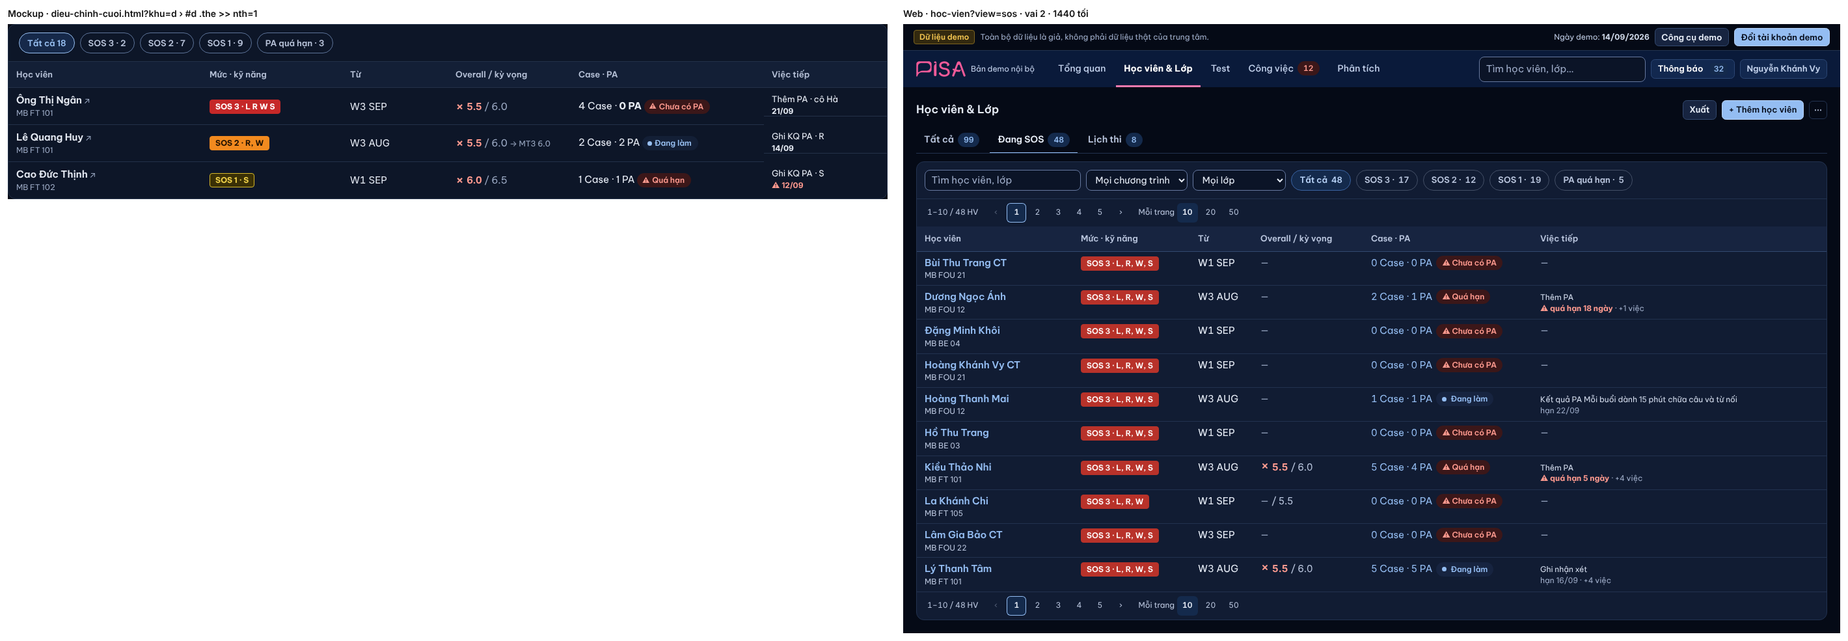
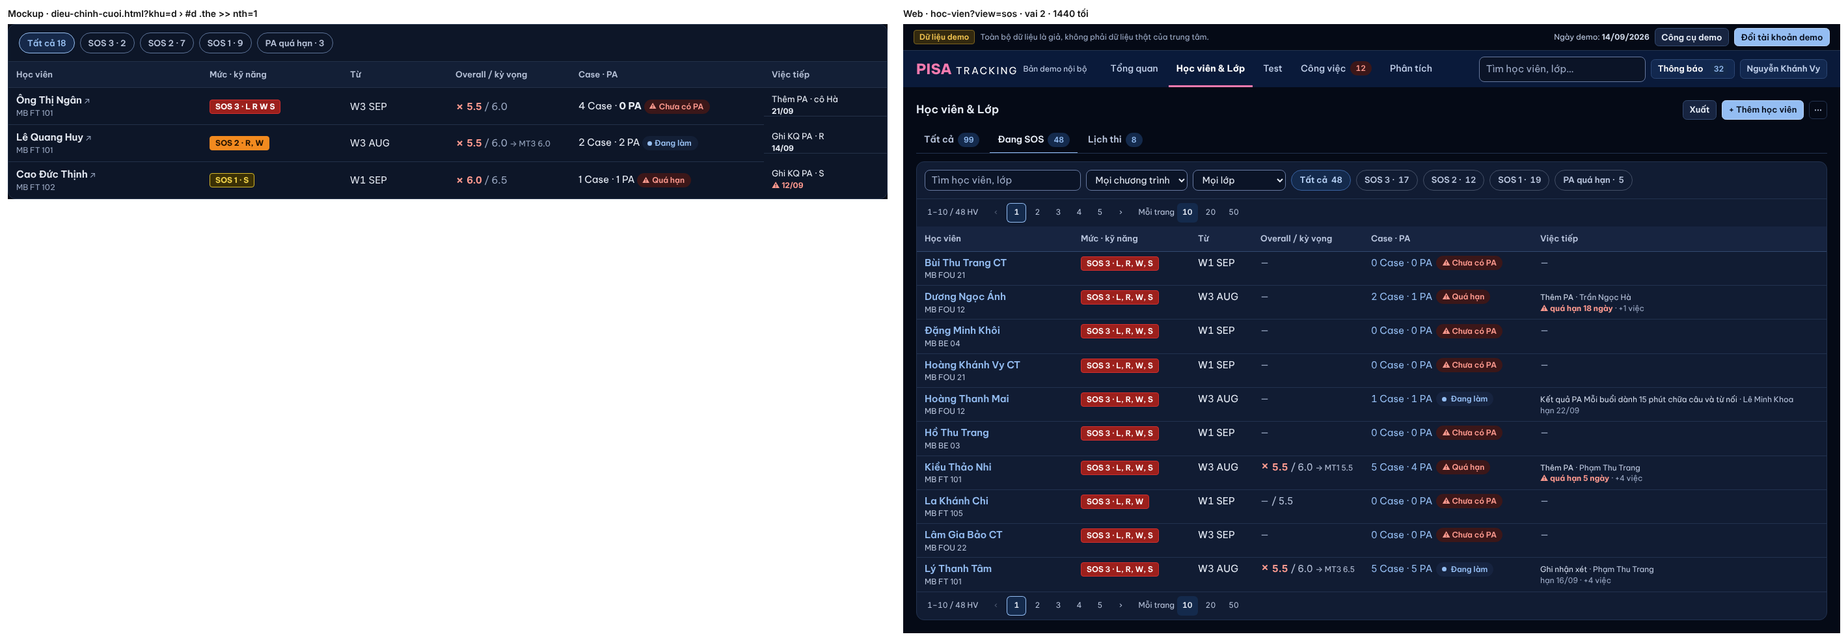
UI-HV-LOP (rà PTA 23/10): Nhập điểm trong ⋯ em, Đang SOS "→ MT kế · kỳ vọng" + người làm việc tiếp, Case mở cùng nguồn
- XM-2: ⋯ dòng em có "Nhập điểm MTn" khi người xem còn ô chờ nhập (máy chủ `nhapDiem` từ `nhapDiemTheoEm`, lượt sớm nhất).
- XM-3: Đang SOS thêm "→ MT kế kỳ vọng" (`HangHv.ke` từ `standingFor`) và người làm việc tiếp (`viecTiep.nguoi`: PA của việc, không thì người giữ Case) → đóng KHÁC #21 #22.
- Lịch thi `chiTiet`: Case mở qua `listCases` (cùng nguồn hàng HV / `chiTietCaseMo`), lô 500 em; trần câu / dòng đo lại.
- Chip "Có việc quá hạn": title ghi rõ đếm theo việc của người xem (GV) / mọi người trong chi nhánh (QL, Admin).
- khop-khac: 27 / 28 KHỚP (#17 chấp nhận), [XM] đã trả lời; ảnh Đang SOS chụp lại. Phép kiểm UHL-4, UHL-5.

Claude-Session: https://claude.ai/code/session_014jDtJR4bBrQziHXFhK9NaK

diff --git a/server/src/classes/hocVienLop.ts b/server/src/classes/hocVienLop.ts
@@ -48,7 +48,8 @@ export type TrangHocVienLop = {
   /** `khung`: Fast Track hay lớp thường của em — công tắc `Tất cả · Fast Track · Lớp thường` đếm chip bằng `demLoc(hocVien, khung)`. */
   hocVien: { id: number; classId: number; loc: LocHocVien[]; khung: 'ft' | 'thuong'; ten: string; ma: string; thieu?: string[]; ketThuc?: true; them?: ThemEm; hang?: HangHv;
     /** UI-HV-LOP (khu d): TVV của em + lịch thi thật (`trangThaiLichThi`, cùng hàm góc Lịch thi) — cột Học viên / Lịch thi, chip "Thi tháng này". */
-    tvv?: string | null; lich?: LichThi }[];
+    tvv?: string | null; lich?: LichThi;
+    nhapDiem?: { kind: string; attemptNo: number; dot: string | null } }[];
   /** Người xem có tạo được lớp MỚI ở chi nhánh nào không — không gắn với lớp đã tồn tại nào (điểm a rà soát cuối). */
   coTheTaoLop: boolean;
   /** HL-14: "+ Học viên" đầu trang — có lớp trong phạm vi thêm được học viên, KHÔNG phụ thuộc ô tìm (tìm không ra em là lúc cần thêm). */
@@ -197,9 +198,10 @@ export function danhSachHocVienLop(
   /* PR-CT: lớp rỗng (em đã chuyển đi hết, GVCN còn phải xác nhận bàn giao) vẫn có thẻ Báo QL theo lớp → cũng nằm trong tập lớp để đếm. */
   for (const id of ids) emTheoLop.set(id, []);
   for (const h of hv) emTheoLop.set(h.class_id, [...(emTheoLop.get(h.class_id) ?? []), h.id as number]);
+  const ndEm = nhapDiemTheoEm(p, ids, today, (sid) => lopCuaHv.get(sid));
   const vl = viecHocVienTheoLop(p, {
     emTheoLop, cases: allCases, homNay: today, chuongTrinhTheoLop: new Map(lops.map((r) => [r.id, r.programmeCode ?? null])),
-    nhapDiemTheoEm: nhapDiemTheoEm(p, ids, today, (sid) => lopCuaHv.get(sid)),
+    nhapDiemTheoEm: ndEm,
   });
 
   /*
@@ -283,10 +285,13 @@ export function danhSachHocVienLop(
     if (thieu.length) loc.push('thieu_tt');
     if (daThi.has(h.id)) loc.push('da-thi');
     /* OV-12f: tên + mã + ô thiếu — dòng "Thiếu thông tin" / "Chờ duyệt" của góc Cần làm (em không có việc ở Công việc vẫn có tên). */
+    const nd = ndEm.get(h.id);
     return { id: h.id as number, classId: h.class_id as number, loc, khung: ft ? 'ft' as const : 'thuong' as const,
       ten: h.full_name as string, ma: (h.student_code ?? '') as string, ...(thieu.length ? { thieu: thieu.map((m) => m.label) } : {}),
       ...(them ? { them: them.get(h.id as number) } : {}), ...(ft && hang.has(h.id) ? { hang: hang.get(h.id) } : {}),
-      tvv: h.tvv ?? null, lich: trangThaiLichThi(h, examPlanOf(h), today) };
+      tvv: h.tvv ?? null, lich: trangThaiLichThi(h, examPlanOf(h), today),
+      /* UI-HV-LOP (XM-2): ⋯ dòng em có "Nhập điểm" chỉ khi người xem còn ô chờ nhập của em — lượt sớm nhất còn nợ (`nhapDiemTheoEm`, cùng nguồn Công việc). */
+      ...(nd?.thuTu ? { nhapDiem: { kind: nd.thuTu.kind, attemptNo: nd.thuTu.attempt_no, dot: nd.dot } } : {}) };
   });
   /*
    * OV-11g (HL-19, Q11): em Kết thúc học chưa Lưu trữ — hiện mờ ở lớp CUỐI (cùng điều kiện `classRoster(…, kemKetThuc)`), chỉ trong "Tất cả":
@@ -337,6 +342,7 @@ function hangHvFt(hv: readonly any[], standing: Map<number, Standing>, allCases:
       mtGan: coLuot ? { mt: st!.attemptNo!, tuan: st!.periodCode ? tuanCua.get(st!.periodCode) ?? null : null, ovr: st!.overall, kyVong: st!.expectation,
         kn: { L: band('listening'), R: band('reading'), W1: band('writing1'), W2: band('writing2'), S: band('speaking') } } : null,
       xuHuong: truoc ? { lech: st!.overall! - truoc.ovr, soMt: truoc.mt } : null,
+      ke: st?.nextAttemptLabel ? { luot: st.nextAttemptLabel, kyVong: st.nextKyVong ?? null } : null,
       hoTro: { sos, kyNang: sos ? (st?.belowSkills ?? []).map((b) => b.skill) : [], soCase: soCase.get(h.id) ?? 0,
         soPa: vl.hoTro.get(h.id)?.soPa ?? 0, quaHan: vl.hoTro.get(h.id)?.quaHan ?? false },
       yThuc: vl.bacYThuc.get(h.id) ?? null,

diff --git a/web/src/modules/students/DanhSachHvLop.tsx b/web/src/modules/students/DanhSachHvLop.tsx
@@ -8,7 +8,7 @@ import { ODiem } from '../../ui/ODiem.tsx';
 import { TargetText } from '../../ui/ui.tsx';
 import { useNgayNghiepVu } from '../../ui/ngayNghiepVu.ts';
 import { skillShort } from '../../lib/format.ts';
-import { useThaoTacDongHocVien, type QuyenDong } from '../classes/thaoTacDongHocVien.tsx';
+import { nhapDiemCua, useThaoTacDongHocVien, type QuyenDong } from '../classes/thaoTacDongHocVien.tsx';
 import { ChipLichThi, MiniKn, kqOverall } from './GocLichThi.tsx';
 import { ViecTiepDong, type DongSos } from './BangSos.tsx';
 import { shortDate, tuanLich, type HangHv, type LichThi, type NguCanhDs } from '@shared/domain/index.ts';
@@ -19,6 +19,8 @@ import type { WorkItem } from '../worklist/WorkList.tsx';
 export type HvGon = {
   id: number; classId: number; ten: string; khung: 'ft' | 'thuong'; ketThuc?: true;
   hang?: HangHv; tvv?: string | null; lich?: LichThi;
+  /** Lượt sớm nhất người xem còn ô chờ nhập của em (máy chủ `nhapDiemTheoEm`) — có thì ⋯ có "Nhập điểm". */
+  nhapDiem?: { kind: string; attemptNo: number; dot: string | null };
 };
 /** Việc của em (cùng nguồn Công việc `/my-work`) — gấp nhất trước; `it` để bấm làm tại chỗ. */
 export type ViecEm = { chu: string; han: string | null; quaHan: boolean; it: WorkItem };
@@ -28,12 +30,13 @@ export type LopGon = { id: number; code: string; programmeName: string | null; s
 const chuSo = (n: number | null | undefined) => (n == null ? null : n.toFixed(1));
 const trong = <span className="text-faint">—</span>;
 
-/** ⋯ CUỐI DÒNG HỌC VIÊN — cùng menu / panel với hồ sơ lớp (`useThaoTacDongHocVien`, quyền theo lớp của em). Nhập điểm theo em ở panel Nhập điểm của lớp. */
+/** ⋯ CUỐI DÒNG HỌC VIÊN — cùng menu / panel với hồ sơ lớp (`useThaoTacDongHocVien`, quyền theo lớp của em); "Nhập điểm" mở panel lớp đúng lượt còn nợ. */
 function MenuEm({ h, lop, onDoi }: { h: HvGon; lop: LopGon | undefined; onDoi: () => void }) {
   const thuong = lop?.scoringMode === 'ratio';
   const tt = useThaoTacDongHocVien({ laLopThuong: thuong, quyen: lop?.viewer ?? { coTheSuaHocVien: false, coTheBaoCase: false, coTheGhiViPham: false, coTheNhapDiem: false },
     maLop: lop?.code ?? null, classId: lop?.id ?? null, onDone: onDoi });
-  const muc = tt.mucCua({ id: h.id, ten: h.ten, dangHoc: !h.ketThuc, nhapDiem: null, status: h.ketThuc ? 'finished' : 'active', ft: !thuong, maLop: lop?.code ?? null });
+  const nd = h.nhapDiem && lop ? nhapDiemCua(lop.id, thuong, [{ kind: h.nhapDiem.kind, kindLabel: h.nhapDiem.dot ?? h.nhapDiem.kind, myPending: ['*'], attemptNo: h.nhapDiem.attemptNo }]) : null;
+  const muc = tt.mucCua({ id: h.id, ten: h.ten, dangHoc: !h.ketThuc, nhapDiem: nd, status: h.ketThuc ? 'finished' : 'active', ft: !thuong, maLop: lop?.code ?? null });
   return <>{muc.length > 0 && <MenuDong muc={muc} nhan={t('Thao tác khác')} />}{createPortal(tt.panels, document.body)}</>;
 }
 
@@ -201,7 +204,12 @@ export function BangSosGon({ rows, hang, nguCanh, onMo }: { rows: DongSos[]; han
       case 'tu': return <span className="tabular-nums">{tuanLich(r.tuan, homNay)}</span>;
       case 'ovr': {
         const m = hang.get(r.studentId)?.mtGan;
-        return m ? <span className="inline-flex items-baseline gap-1"><ODiem so={chuSo(m.ovr)} kq={kqOverall(m.ovr, m.kyVong)} nhan="Overall" /><span className="text-slate-400">/ {chuSo(m.kyVong) ?? '—'}</span></span> : trong;
+        const ke = hang.get(r.studentId)?.ke;
+        return m ? (
+          <span className="inline-flex flex-wrap items-baseline gap-1">
+            <ODiem so={chuSo(m.ovr)} kq={kqOverall(m.ovr, m.kyVong)} nhan="Overall" /><span className="text-slate-400">/ {chuSo(m.kyVong) ?? '—'}</span>
+            {ke && <span className="text-xs text-slate-400">→ {ke.luot}{ke.kyVong != null ? ` ${chuSo(ke.kyVong)}` : ''}</span>}
+          </span>) : trong;
       }
       case 'case': {
         const tt = trangThaiCase(r);

diff --git a/server/src/classes/lichThi.ts b/server/src/classes/lichThi.ts
@@ -22,6 +22,7 @@ import { cycleById, examPlanOf, updateCycle } from '../fasttrack/cycles.ts';
 import { chanLuuTru } from '../students/students.ts';
 import { standingFor } from '../students/standing.ts';
 import { diemCuaLuot } from '../fasttrack/attempts.ts';
+import { listCases, type MappedCase } from '../cases/cases.ts';
 
 const GHI_CHU_TOI_DA = 300;
 
@@ -145,7 +146,7 @@ export function danhSachLichThi(
   const suaDuoc = new Map<number, boolean>();
   const suaLop = (classId: number) => { if (!suaDuoc.has(classId)) suaDuoc.set(classId, can(p, PERMISSIONS.STUDENT_EDIT, { classId }) || can(p, PERMISSIONS.STUDENT_EDIT_INFO, { classId })); return suaDuoc.get(classId)!; };
   const chot = chotNgayCua(chon.filter((x) => x.r.cycle_id).map((x) => ({ id: x.r.cycle_id as number, exam_date: x.r.exam_date ?? null })));
-  const chiTiet = chiTietLichThi(chon.map((x) => x.r), standing, hom);
+  const chiTiet = chiTietLichThi(p, chon.map((x) => x.r), standing, hom);
   const rows: HangLichThi[] = chon.map(({ r }) => {
     const l = lop.get(r.class_id);
     return {
@@ -165,7 +166,7 @@ export function danhSachLichThi(
  * Phần mở dưới hàng Lịch thi (V4 `mockup-v4-hoc-vien-lop.html` khung 3) — đọc THEO LÔ cho cả trang: điểm lượt của `standing` (`diemCuaLuot`, nhớ theo request),
  * một câu lượt kế hoạch sắp tới, một câu Case đang mở, hai câu nhật ký lịch thi (`lich_thi.luu` · `cycle.update` có đổi ngày / tháng thi) — mỗi lô ≤ 900.
  */
-function chiTietLichThi(ds: readonly any[], standing: ReturnType<typeof standingFor>, hom: string): (r: any) => HangLichThi['chiTiet'] {
+function chiTietLichThi(p: Principal, ds: readonly any[], standing: ReturnType<typeof standingFor>, hom: string): (r: any) => HangLichThi['chiTiet'] {
   const luotSt = [...new Set(ds.map((r) => standing.get(r.id)?.attemptId).filter((x): x is number => !!x))];
   const diem = diemCuaLuot(luotSt);
   const cyc = [...new Set(ds.map((r) => r.cycle_id).filter((x): x is number => !!x))];
@@ -198,12 +199,15 @@ function chiTietLichThi(ds: readonly any[], standing: ReturnType<typeof standing
       lichSu.set(x.entity_id, ls);
     }
   });
+  /* "Case mở" CÙNG nguồn với hàng HV / `chiTietCaseMo` (`listCases` của người xem, status ≠ done, không Case tạm) — không câu SQL riêng. */
   const caseMo = new Map<number, string[]>();
-  theoLo([...new Set(ds.map((r) => r.id as number))], (lo, ph) => {
-    for (const c of db().prepare(`SELECT student_id, topic FROM sos_cases WHERE student_id IN (${ph}) AND status != 'done' AND tam = 0 ORDER BY id`).all(...lo) as any[]) {
-      if (c.topic) caseMo.set(c.student_id, [...new Set([...(caseMo.get(c.student_id) ?? []), c.topic as string])]);
-    }
-  });
+  const ids = [...new Set(ds.map((r) => r.id as number))];
+  const mo: MappedCase[] = [];
+  for (let k = 0; k < ids.length; k += 500) mo.push(...listCases(p, { studentIds: ids.slice(k, k + 500) }).rows);   // lô 500 như `xuatDanhSach` (trần tham số Turso)
+  for (const c of mo) {
+    if (c.status === 'done' || c.studentId === null || !c.topic) continue;
+    caseMo.set(c.studentId, [...new Set([...(caseMo.get(c.studentId) ?? []), c.topic])]);
+  }
   return (r) => {
     const st = standing.get(r.id);
     const band = (k: string) => diem.get(st?.attemptId as number)?.find((x) => x.skill === k)?.band ?? null;

diff --git a/server/src/tests/tocDoDuong.ts b/server/src/tests/tocDoDuong.ts
@@ -550,13 +550,14 @@ export const TRAN: Record<string, number> = {
   'GVCN_THUONG /classes/3/roster?chiId=1': 22,
   'QT /classes/3/roster?chiId=1': 20,
   'QL /hoc-vien-lop/ids': 20,
-  /* OV-15f: góc Lịch thi — đo 15–16 câu; quyền sửa tính theo LỚP (không theo em: 102 câu → 16). Trần = đo + 6. */
-  'QL /hoc-vien-lop/lich-thi?thang=2026-10,2026-11': 22,
-  'QT /hoc-vien-lop/lich-thi?thang=2026-10,2026-11': 23,
-  'TVV /hoc-vien-lop/lich-thi?thang=2026-10,2026-11': 23,
-  'CX /hoc-vien-lop/lich-thi?thang=2026-10,2026-11': 22,
-  'GVCN /hoc-vien-lop/lich-thi?thang=2026-10,2026-11': 21,   // OV-15f: đo 15 → đo + 6
-  'GVBM /hoc-vien-lop/lich-thi?thang=2026-10,2026-11': 21,   // OV-15f: đo 15 → đo + 6
+  /* OV-15f: góc Lịch thi — đo 15–16 câu; quyền sửa tính theo LỚP (không theo em: 102 câu → 16). Trần = đo + 6.
+     UI-HV-LOP: + chi tiết dưới hàng (lượt sắp tới, 2 câu nhật ký, điểm, Case mở qua `listCases` — cùng nguồn "Case mở" hàng HV) → đo 23–25, trần = đo + 4. */
+  'QL /hoc-vien-lop/lich-thi?thang=2026-10,2026-11': 28,
+  'QT /hoc-vien-lop/lich-thi?thang=2026-10,2026-11': 28,
+  'TVV /hoc-vien-lop/lich-thi?thang=2026-10,2026-11': 29,
+  'CX /hoc-vien-lop/lich-thi?thang=2026-10,2026-11': 27,
+  'GVCN /hoc-vien-lop/lich-thi?thang=2026-10,2026-11': 28,   // OV-15f: đo 15 → đo + 6
+  'GVBM /hoc-vien-lop/lich-thi?thang=2026-10,2026-11': 28,   // OV-15f: đo 15 → đo + 6
   'GVCN /hoc-vien-lop/ids': 19,
   'GVBM /hoc-vien-lop/ids': 19,
   'GVCN_THUONG /hoc-vien-lop/ids': 19,
@@ -866,7 +867,7 @@ export const TRAN_DONG: Record<string, number> = {
   'QL /lich-su?loai=o&id=5': 86, 'QT /lich-su?loai=o&id=5': 54, 'GVCN /lich-su?loai=o&id=5': 87, 'GVBM /lich-su?loai=o&id=5': 87,
   /* TU-b: trang Tutor — trần = max(đo+50, ⌈đo×1,3⌉), đo 20/10. */
   'QL /tutors': 65, 'QT /tutors': 66, 'QL /tutors/1': 58, 'QT /tutors/1': 59, 'QT /tutors/dem': 51, 'QT /tutors/go-tay': 52,   // đo 15 · 16 · 8 · 9 · 1 · 2
-  'QL /hoc-vien-lop/lich-thi?thang=2026-10,2026-11': 876,   // OV-15f: đo 593 (FT + lớp thường; ×3 → 1 659); trần = max(đo + 50, ⌈đo × 1,3⌉). UI-HV-LOP: + chi tiết dưới hàng (lượt sắp tới, Case mở, nhật ký, điểm) đo 826 (×3 → 2 354) → đo + 50
+  'QL /hoc-vien-lop/lich-thi?thang=2026-10,2026-11': 1154,   // OV-15f: đo 593 (FT + lớp thường; ×3 → 1 659); trần = max(đo + 50, ⌈đo × 1,3⌉). UI-HV-LOP: + chi tiết dưới hàng (lượt sắp tới, nhật ký, điểm, Case mở qua `listCases`) đo 1 104 (×3 → 2 936) → đo + 50
   'QL /hoc-vien-lop?phamVi=chi-nhanh&branchId=1&them=1': 3661,   // OV-15h2: đo 2816 (×3 → 7094; trang không them ~2545) → max(đo + 50, ⌈đo × 1,3⌉)
   /* TU-a: ô chọn tutor — trần = max(đo+50, ⌈đo×1,3⌉), đo 20/10 (13 · 11 · 17 · 17 · 44 · 12 · 45 dòng). */
   'QL /tutors/chon?studentId=1': 63, 'QT /tutors/chon?studentId=1': 61, 'GVCN /tutors/chon?studentId=1': 67, 'GVBM /tutors/chon?studentId=1': 67,

diff --git a/server/src/tests/prUiHvLop.tests.ts b/server/src/tests/prUiHvLop.tests.ts
@@ -11,6 +11,9 @@ export async function runPrUiHvLopTests(t: Kit) {
   const d: any = await import('../../../shared/domain/index.ts');
   const hvl: any = await import('../classes/hocVienLop.ts');
   const lt: any = await import('../classes/lichThi.ts');
+  const sos: any = await import('../classes/hocVienSos.ts');
+  const standing: any = await import('../students/standing.ts');
+  const dhv: any = await import('../classes/dongHocVien.ts');
   console.log('\nV5 · UI-HV-LOP — danh sách gọn: TVV + lịch thi trên hàng, chi tiết dưới hàng Lịch thi');
 
   check('UHL-1 · thangTrongKhoang: gồm hai đầu, qua năm, ngược → rỗng, trần 12', () => {
@@ -52,5 +55,35 @@ export async function runPrUiHvLopTests(t: Kit) {
     } finally {
       conn.exec('ROLLBACK TO uhl3'); conn.exec('RELEASE uhl3');
     }
+  });
+
+  check('UHL-4 · hàng HV: nhapDiem chỉ khi người xem còn ô chờ nhập (lượt sớm nhất của nhapDiemTheoEm); ke = lượt kế + kỳ vọng của standingFor', () => {
+    const dh: any = dhv;
+    const r = hvl.danhSachHocVienLop(P.coreTeacher, {});
+    const co = r.hocVien.filter((h: any) => h.nhapDiem);
+    assert(co.length > 0, 'seed: GVCN MB FT 101 phải có em còn ô chờ nhập');
+    /* Cùng đầu vào máy chủ: mọi lớp của trang, lớp của em = dòng ghi danh SAU (Map — em còn hai lớp đang học). */
+    const lopCua = new Map(r.hocVien.filter((h: any) => !h.ketThuc).map((h: any) => [h.id, h.classId]));
+    const nd = dh.nhapDiemTheoEm(P.coreTeacher, r.rows.map((c: any) => c.id), TODAY, (sid: number) => lopCua.get(sid));
+    for (const h of r.hocVien.filter((x: any) => !x.ketThuc)) {
+      const x = nd.get(h.id);
+      assert(!!h.nhapDiem === !!x?.thuTu, `${h.ten}: nhapDiem ${JSON.stringify(h.nhapDiem)} ≠ ${JSON.stringify(x)}`);
+      if (h.nhapDiem) assert(h.nhapDiem.kind === x.thuTu.kind && h.nhapDiem.attemptNo === x.thuTu.attempt_no, `${h.ten}: lượt`);
+    }
+    const st: any = standing.standingFor(r.hocVien.filter((h: any) => h.hang).map((h: any) => h.id));
+    let coKe = 0;
+    for (const h of r.hocVien.filter((x: any) => x.hang)) {
+      const s0 = st.get(h.id);
+      assert((h.hang.ke?.luot ?? null) === (s0?.nextAttemptLabel ?? null) && (h.hang.ke?.kyVong ?? null) === (s0?.nextAttemptLabel ? s0.nextKyVong ?? null : null), `${h.ten}: ke`);
+      if (h.hang.ke) coKe += 1;
+    }
+    assert(coKe > 0, 'seed: phải có em có lượt kế');
+  });
+
+  check('UHL-5 · Đang SOS: việc tiếp mang người làm (PA của việc đó, không thì người giữ Case)', () => {
+    const r = sos.dangSos(P.mbManager, { phamVi: 'tat-ca' });
+    const vt = r.rows.flatMap((x: any) => x.cases).filter((c: any) => c.viecTiep);
+    assert(vt.length > 0 && vt.every((c: any) => 'nguoi' in c.viecTiep), 'thiếu trường nguoi');
+    assert(vt.some((c: any) => c.viecTiep.nguoi), 'seed: phải có việc tiếp có người làm');
   });
 }

diff --git a/server/src/classes/hocVienSos.ts b/server/src/classes/hocVienSos.ts
@@ -30,7 +30,8 @@ export type CaseTomTat = {
   /** Kết quả PA gần nhất (tình trạng tới hôm nay) — chữ 5 mức + ngày ghi. */
   ketQua: string | null; ketQuaNgay: string | null;
   nhom: NhomXuLy; trangThai: string;
-  viecTiep: { chu: string; han: string | null; loaiHan: string | null; quaHan: boolean } | null;
+  /** `nguoi` (UI-HV-LOP, khu d): người làm việc tiếp — người của PA việc đó, việc mức Case thì người giữ Case. */
+  viecTiep: { chu: string; han: string | null; loaiHan: string | null; quaHan: boolean; nguoi: string | null } | null;
   /** Lượt sinh / lặp Case — panel ghép Case với lượt SOS ("MT2"). */
   attemptId: number | null; attemptNo: number | null; done: boolean;
 };
@@ -63,7 +64,8 @@ export function tomTatCase(cases: readonly MappedCase[]): Map<number, CaseTomTat
       pa: x.pas.map((p) => ({ id: p.id, ten: tenPaGon(p.ten), nguoi: p.nguoi, choXacNhan: p.choXacNhan, xong: p.xong })),
       ketQua: c.lastOutcome ? outcomeLabelFor(c.lastOutcome) : null, ketQuaNgay: c.lastOutcomeOn,
       nhom: NHOM_THEO_COT[xl.get(c.id)?.cot ?? 'choDuyet'], trangThai: x.trangThai.chu,
-      viecTiep: x.viecTiep ? { chu: x.viecTiep.chu, han: x.viecTiep.han, loaiHan: x.viecTiep.loaiHan, quaHan: !!x.viecTiep.han && x.viecTiep.han < homNay } : null,
+      viecTiep: x.viecTiep ? { chu: x.viecTiep.chu, han: x.viecTiep.han, loaiHan: x.viecTiep.loaiHan, quaHan: !!x.viecTiep.han && x.viecTiep.han < homNay,
+        nguoi: (x.viecTiep.paId != null ? x.pas.find((p) => p.id === x.viecTiep!.paId)?.nguoi : null) ?? c.ownerName ?? null } : null,
       attemptId: c.attemptId, attemptNo: c.attemptNo, done: c.status === 'done',
     });
   }

diff --git a/server/src/classes/dongHocVien.ts b/server/src/classes/dongHocVien.ts
@@ -55,7 +55,8 @@ export function caseViecTheoHocVien(p: Principal, classId: number): Map<number, 
   return out;
 }
 
-export type NhapDiemViec = { kyNang: string[]; dot: string | null; quaHan: boolean; han: string | null };
+/** `thuTu`: lượt còn nợ SỚM NHẤT (kind + số) — ⋯ dòng em mở panel Nhập điểm lớp đúng lượt (UI-HV-LOP). */
+export type NhapDiemViec = { kyNang: string[]; dot: string | null; quaHan: boolean; han: string | null; thuTu: { kind: string; attempt_no: number } | null };
 
 /**
  * PR-UXF-a VN29: việc NHẬP ĐIỂM của CHÍNH người xem theo em — MỘT luật cho cột "Việc tiếp theo" của bảng lớp, chip Cần làm / Quá hạn
@@ -66,7 +67,7 @@ export function nhapDiemTheoEm(p: Principal, classIds: readonly number[], homNay
   /* Lớp người xem có VIỆC nhập điểm: đang được phân công, hoặc vai không phải giáo viên có SCORE_EDIT ở lớp (Quản trị) — như `mySkills`. */
   const day = new Set(p.assignments.filter((a) => activeAt(a, homNay)).map((a) => a.classId));
   const lop = [...new Set(classIds)].filter((id) => day.has(id) || can(p, PERMISSIONS.SCORE_EDIT, { classId: id }));
-  const out = new Map<number, NhapDiemViec & { thuTu: { kind: string; attempt_no: number } | null; hanQua?: string | null }>();
+  const out = new Map<number, NhapDiemViec & { hanQua?: string | null }>();
   if (!lop.length) return out;
   for (const a of listAttempts(p, { classIds: lop, chiDangHoc: true, chiConO: true }).rows as any[]) {
     const cho = (a.myPendingDetail ?? []) as { skill: string; deadline: string | null; overdue: boolean }[];

diff --git a/web/src/modules/students/BangSos.tsx b/web/src/modules/students/BangSos.tsx
@@ -18,7 +18,7 @@ export type CaseTomTat = {
   id: number; topic: string | null; kyNang: string | null; nguyenNhan: string | null; nhanXet: string | null;
   pa: { id: number; ten: string; nguoi: string | null; choXacNhan: boolean; xong: boolean }[];
   ketQua: string | null; ketQuaNgay: string | null; nhom: NhomXuLy; trangThai: string;
-  viecTiep: { chu: string; han: string | null; loaiHan: DeadlineKind | null; quaHan: boolean } | null;
+  viecTiep: { chu: string; han: string | null; loaiHan: DeadlineKind | null; quaHan: boolean; nguoi: string | null } | null;
   attemptId: number | null; attemptNo: number | null; done: boolean;
 };
 export type DongSos = {
@@ -70,7 +70,7 @@ export function ViecTiepDong({ r }: { r: DongSos }) {
   const d = v.han ? deadlineView({ kind: v.loaiHan ?? 'xac-minh-sos', due: v.han, today: homNay }) : null;
   return (
     <span className="block text-xs">
-      <span className="block truncate text-slate-200" title={dich(v.chu)}>{dich(v.chu)}</span>
+      <span className="block truncate text-slate-200" title={[dich(v.chu), v.nguoi].filter(Boolean).join(' · ')}>{dich(v.chu)}{v.nguoi && <span className="text-slate-400"> · {v.nguoi}</span>}</span>
       <span className="block text-slate-500">
         {v.quaHan && d ? <QuaHan ngay={d.daysOverdue} /> : d ? d.han : null}
         {ds.length > 1 && <span>{d ? ' · ' : ''}{t('+{n} việc', { n: ds.length - 1 })}</span>}

diff --git a/web/src/modules/students/StudentsPage.tsx b/web/src/modules/students/StudentsPage.tsx
@@ -301,7 +301,9 @@ function TrangTheoLop({ admin }: { admin: boolean }) {
             <button type="button" className="nut-loc" aria-pressed={locThiThang} onClick={() => setParam({ thi: locThiThang ? null : '1' })}>
               {t('Thi tháng này')} · <span className="tabular-nums">{demThi}</span>
             </button>
+            {/* Đếm theo `/my-work` của người xem: GV = việc của mình; QL / Admin = việc mọi người trong chi nhánh đang xem (như Công việc "Tất cả"). */}
             <button type="button" className="nut-loc" aria-pressed={locQuaHan} disabled={!work.data && !work.error}
+              title={laQl || admin ? t('Việc quá hạn của mọi người trong chi nhánh') : t('Chỉ việc của bạn')}
               onClick={() => { if (work.error) work.reload(); setParam({ qh: locQuaHan ? null : '1', view: null, loc: null }); }}>
               {t('Có việc quá hạn')} · <span className="tabular-nums">{work.error ? '!' : work.data ? demQh : '…'}</span>
             </button>

diff --git a/shared/domain/hocVienLop.ts b/shared/domain/hocVienLop.ts
@@ -57,6 +57,8 @@ export type HangHv = {
   loTrinh: { mt: number; soMt: number; target: number | null; kck: boolean };
   mtGan: { mt: number; tuan: string | null; ovr: number | null; kyVong: number | null; kn: Record<'L' | 'R' | 'W1' | 'W2' | 'S', number | null> } | null;
   xuHuong: { lech: number; soMt: number } | null;
+  /** UI-HV-LOP (Đang SOS "→ MT3 6.0"): lượt kế tiếp của lộ trình + kỳ vọng của lượt đó (`standingFor`). */
+  ke: { luot: string; kyVong: number | null } | null;
   hoTro: { sos: number | null; kyNang: string[]; soCase: number; soPa: number; quaHan: boolean };
   yThuc: string | null;
 };

diff --git a/shared/i18n/en/uiHvLop.ts b/shared/i18n/en/uiHvLop.ts
@@ -45,4 +45,6 @@ export const EN_UI_HV_LOP = {
   'Đến tháng': 'To month',
   'Ghi chú {ten}': 'Note {ten}',
   'Xếp: Lớp · tên': 'Sort: class · name',
+  'Việc quá hạn của mọi người trong chi nhánh': 'Overdue tasks of everyone in this branch',
+  'Chỉ việc của bạn': 'Your tasks only',
 } as const;

diff --git a/docs/anh/ui-hv-lop/khop-khac.md b/docs/anh/ui-hv-lop/khop-khac.md
@@ -23,12 +23,12 @@
 | 14 | Ý thức: chấm + bậc | `Nhan tone="doing"` | KHỚP |
 | 15 | Lịch thi chip: Thi dd/mm · Chưa có lịch · Chưa chốt · mm/yyyy · Dự kiến mm/yyyy | `ChipLichThi` (máy chủ thêm `lich` = `trangThaiLichThi`) | KHỚP |
 | 16 | Việc: việc + hạn dd/mm, ⚠ đỏ khi quá hạn | `OViec` (+ "+n việc") | KHỚP |
-| 17 | Hộp Xuất: "Theo bộ lọc: … · n HV" · Phạm vi Bộ lọc hiện tại / Cả chi nhánh · Cột · "Ghi vào nhật ký xuất" · Xuất n HV | `NganXuatDs` | KHÁC — panel phải chuẩn NEN-PANEL (không hộp neo); 18 cột thật của tệp xuất thay 8 cột gộp của mockup ("Việc đang mở", "SĐT phụ huynh" chưa có ở máy chủ) |
+| 17 | Hộp Xuất: "Theo bộ lọc: … · n HV" · Phạm vi Bộ lọc hiện tại / Cả chi nhánh · Cột · "Ghi vào nhật ký xuất" · Xuất n HV | `NganXuatDs` | KHÁC **chấp nhận (chủ SP 23/10)** — panel phải chuẩn NEN-PANEL; 18 cột thật của tệp xuất |
 | 18 | 375: thẻ em (tên · lớp · chip) + dòng việc / Target · Overall | `TheHvGon` | KHỚP |
 | 19 | Đang SOS: chip Tất cả · SOS 3 · SOS 2 · SOS 1 · PA quá hạn | `?muc=` | KHỚP |
 | 20 | Đang SOS: Học viên · Mức · kỹ năng · Từ · Overall / kỳ vọng · Case · PA (+ trạng thái) · Việc tiếp | `BangSosGon` | KHỚP |
-| 21 | Overall "→ MT3 6.0" (kỳ vọng MT kế) | — | KHÁC — chưa có số kỳ vọng MT kế trên dòng SOS (xem [XM-3]) |
-| 22 | Việc tiếp "· cô Hà" (người làm) | `ViecTiepDong` (chữ + hạn) | KHÁC — dòng SOS máy chủ chưa gửi người làm việc tiếp |
+| 21 | Overall "→ MT3 6.0" (kỳ vọng MT kế) | `hang.ke` (`standingFor` lượt kế + kỳ vọng) | KHỚP (sửa theo XM-3) |
+| 22 | Việc tiếp "· cô Hà" (người làm) | `ViecTiepDong` + `viecTiep.nguoi` (người của PA việc đó, không thì người giữ Case) | KHỚP (sửa theo XM-3) |
 | 23 | Lịch thi: Tháng dự kiến [từ] → [đến] + chi nhánh + đếm "n chưa chốt · n đã chốt · n dự kiến" | `GocLichThi` (`ONgay kieu="thang"`) | KHỚP |
 | 24 | Nhóm: Chưa chốt ngày — đã tới tháng · Đã chốt ngày · Dự kiến · ▸ Chưa có tháng thi (gập) | `NHOM` | KHỚP |
 | 25 | Hàng: Học viên · MT gần nhất · Target · Lịch thi · Ghi chú (ai · ngày) · Chốt ngày / Dời tháng (B nhấn) · Sửa ngày (A) · ▸ | `DongLichThi` | KHỚP |
@@ -37,7 +37,7 @@
 | 28 | Ghi chú "Chưa kết luận" khi trống | ô ghi chú (placeholder) | KHỚP |
 | — | BỎ | "Cần làm" (chủ SP 22/10), cột tick + "Xuất các HV đã chọn", 4 nút Kết luận / "Giữ tháng" / "Cần xác nhận" / 12 nút tháng / "Gồm HV chưa có dự kiến" (V4 Q-C3 ①), hàng lớp gập + bảng điểm theo lớp | BỎ |
 
-**Đếm:** 25 KHỚP · 3 KHÁC (#17 panel chuẩn + cột thật; #21, #22 dữ liệu máy chủ chưa có) → 25 / 28 = **89 %** (KHÁC chờ chủ SP / PTA đồng ý lý do; #21–#22 có thể thêm ở máy chủ nếu cần → 96 %).
+**Đếm (sau rà PTA 23/10):** 27 KHỚP · 1 KHÁC chấp nhận (#17) → 27 / 28 = **96 %**, 28 / 28 đạt cổng. `cap-sos-1440-toi` chụp lại (→ MT kế · kỳ vọng, người làm việc tiếp).
 
 ## Thao tác TRƯỚC → SAU (luật 8b, `10` mục 8)
 
@@ -47,8 +47,8 @@
 | + Lớp mới (đầu trang) | **GIỮ** trong ⋯ đầu trang | V4 / mockup đầu trang chỉ Xuất + Thêm HV |
 | ⋯ Lưu trữ | **GIỮ** | |
 | Xuất Excel · n HV | **GIỮ** "Xuất" (theo bộ lọc + chọn cột, phạm vi rộng "Cả chi nhánh") | Lịch thi: nút Xuất riêng → nút đầu trang (TVV / CX cũng vậy) |
-| Hàng lớp: mở / gập, ⋯ Hồ sơ lớp · Nhập điểm · + Học viên, badge (bài chờ chấm → Lịch Test, chờ duyệt, quá hạn, xếp lớp, lộ trình…) | **GIỮ** qua ô chọn "Lớp" → **dải lớp** (badge cùng `badgeLop`, cùng đích bấm; ⋯ Hồ sơ lớp · Nhập điểm (panel) · + Học viên); mã lớp dưới tên em mở Hồ sơ lớp | [XM-1] vị trí |
-| ⋯ cuối dòng em (Báo Case, Ghi vi phạm, Xử lý Ý thức, Sửa thông tin, Chuyển lớp / đề xuất, Lưu trữ / Học lại, Mở hồ sơ) | **GIỮ** cột ⋯ (cùng `useThaoTacDongHocVien`, quyền theo lớp của em) | "Nhập điểm" theo từng em → dùng Nhập điểm của lớp (dải lớp) — [XM-2] |
+| Hàng lớp: mở / gập, ⋯ Hồ sơ lớp · Nhập điểm · + Học viên, badge (bài chờ chấm → Lịch Test, chờ duyệt, quá hạn, xếp lớp, lộ trình…) | **GIỮ** qua ô chọn "Lớp" → **dải lớp** (badge cùng `badgeLop`, cùng đích bấm; ⋯ Hồ sơ lớp · Nhập điểm (panel) · + Học viên); mã lớp dưới tên em mở Hồ sơ lớp | chủ SP đồng ý (XM-1) |
+| ⋯ cuối dòng em (Báo Case, Ghi vi phạm, Xử lý Ý thức, Sửa thông tin, Chuyển lớp / đề xuất, Lưu trữ / Học lại, Mở hồ sơ) | **GIỮ** cột ⋯ (cùng `useThaoTacDongHocVien`, quyền theo lớp của em), có "Nhập điểm MTn" khi người xem còn ô chờ nhập của em (`nhapDiemTheoEm`, lượt sớm nhất) | XM-2 |
 | Việc tiếp theo (bấm → đích) | **GIỮ** ô Việc bấm = làm tại chỗ (Case → panel một em; việc làm được trong panel → PanelViec; còn lại → trang việc) | |
 | Góc "Cần làm" + lọc phụ Quá hạn / Chờ duyệt / Thiếu thông tin | Quá hạn → chip "Có việc quá hạn"; Chờ duyệt → badge dải lớp + Công việc; Thiếu thông tin → ⋯ Sửa thông tin + Công việc | Bỏ góc theo chủ SP 22/10; link cũ `view=can-lam / qua-han` mở Tất cả + chip quá hạn |
 | Chip "Đã thi · chờ kết quả" | **GIỮ** | |
@@ -60,10 +60,12 @@
 | Ô tick + thanh "Xuất các HV đã chọn" | **BỎ** (chủ SP: Xuất theo bộ lọc) | |
 | Đang SOS: Mở (panel một em), Nguyên nhân / Phương án / Kết quả / Trạng thái | Panel một em: bấm "n Case · m PA"; cột theo khu d (Case · PA + trạng thái, Việc tiếp) | nguyên nhân / PA chi tiết ở panel |
 | Lịch thi: Chốt ngày, Chuyển tháng, ghi chú tại hàng | **GIỮ** Chốt ngày · Dời tháng · ghi chú sửa tại chỗ · Sửa ngày (đã chốt) | Giữ tháng / Cần xác nhận bỏ theo V4 Q-C3 ① |
-| Admin: cột Lượt MT gần nhất · Ô chưa nhập | Danh sách chung (MT gần nhất, Lịch thi) | [XM-4] |
+| Admin: cột Lượt MT gần nhất · Ô chưa nhập | Danh sách chung (MT gần nhất, Lịch thi) | chủ SP đồng ý (XM-4) |
 
-## [XM] — hỏi PTA Plan trước khi chốt
-1. **Thao tác lớp**: thay hàng lớp bằng ô "Lớp" + dải lớp (badge + ⋯). Đồng ý vị trí này, hay muốn thêm ⋯ lớp ngay trên dòng em?
-2. **Nhập điểm theo em** trong ⋯ dòng em (trước có khi em có ô chờ nhập của người xem): nay vào Nhập điểm của lớp. Cần thêm lại (máy chủ gửi `nhapDiem` theo em)?
-3. Đang SOS: thêm "→ MT kế · kỳ vọng" và người làm việc tiếp như mockup (cần máy chủ gửi thêm 2 trường)?
-4. Admin MT: giữ cột "Ô chưa nhập" riêng như trước hay dùng danh sách chung?
+## [XM] — chủ SP trả lời 23/10 (đã áp)
+1. Ô Lớp + dải lớp — đồng ý.
+2. "Nhập điểm" trong ⋯ em — thêm lại, chỉ hiện khi em có ô chờ nhập của người xem.
+3. Đang SOS "→ MT kế · kỳ vọng" + người làm việc tiếp — thêm (máy chủ `hang.ke`, `viecTiep.nguoi`).
+4. Admin MT dùng danh sách chung.
+
+Chip "Có việc quá hạn" đếm theo `/my-work` của người xem: GV = việc của mình; QL / Admin = việc mọi người trong chi nhánh đang xem (ghi ở `title` của chip).
